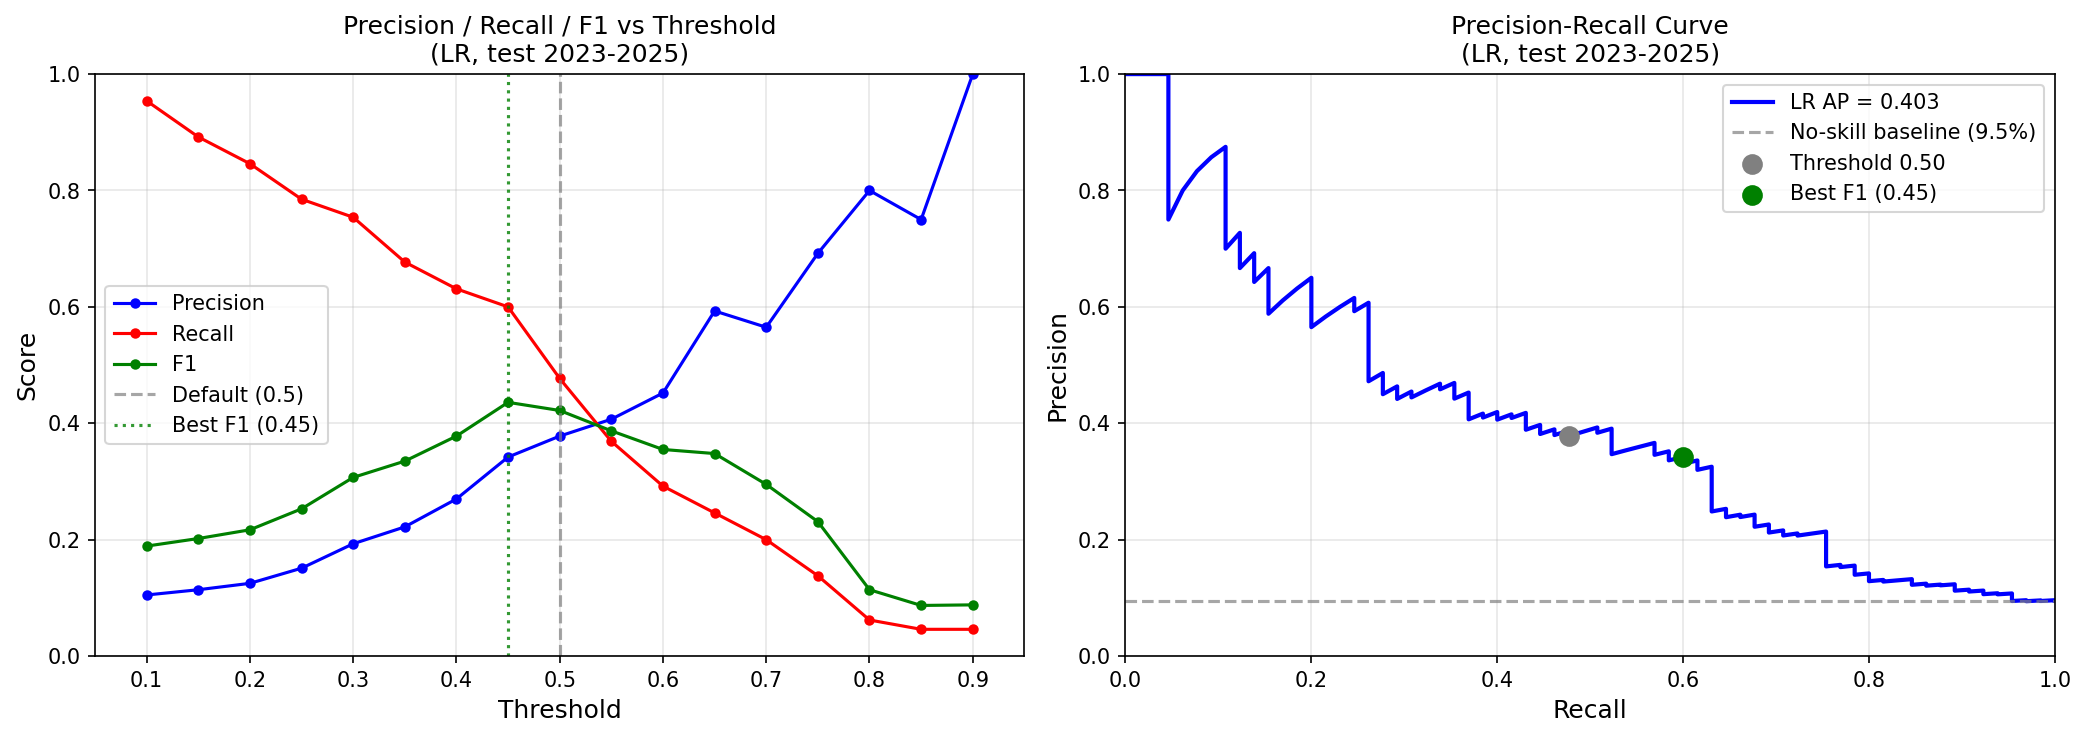
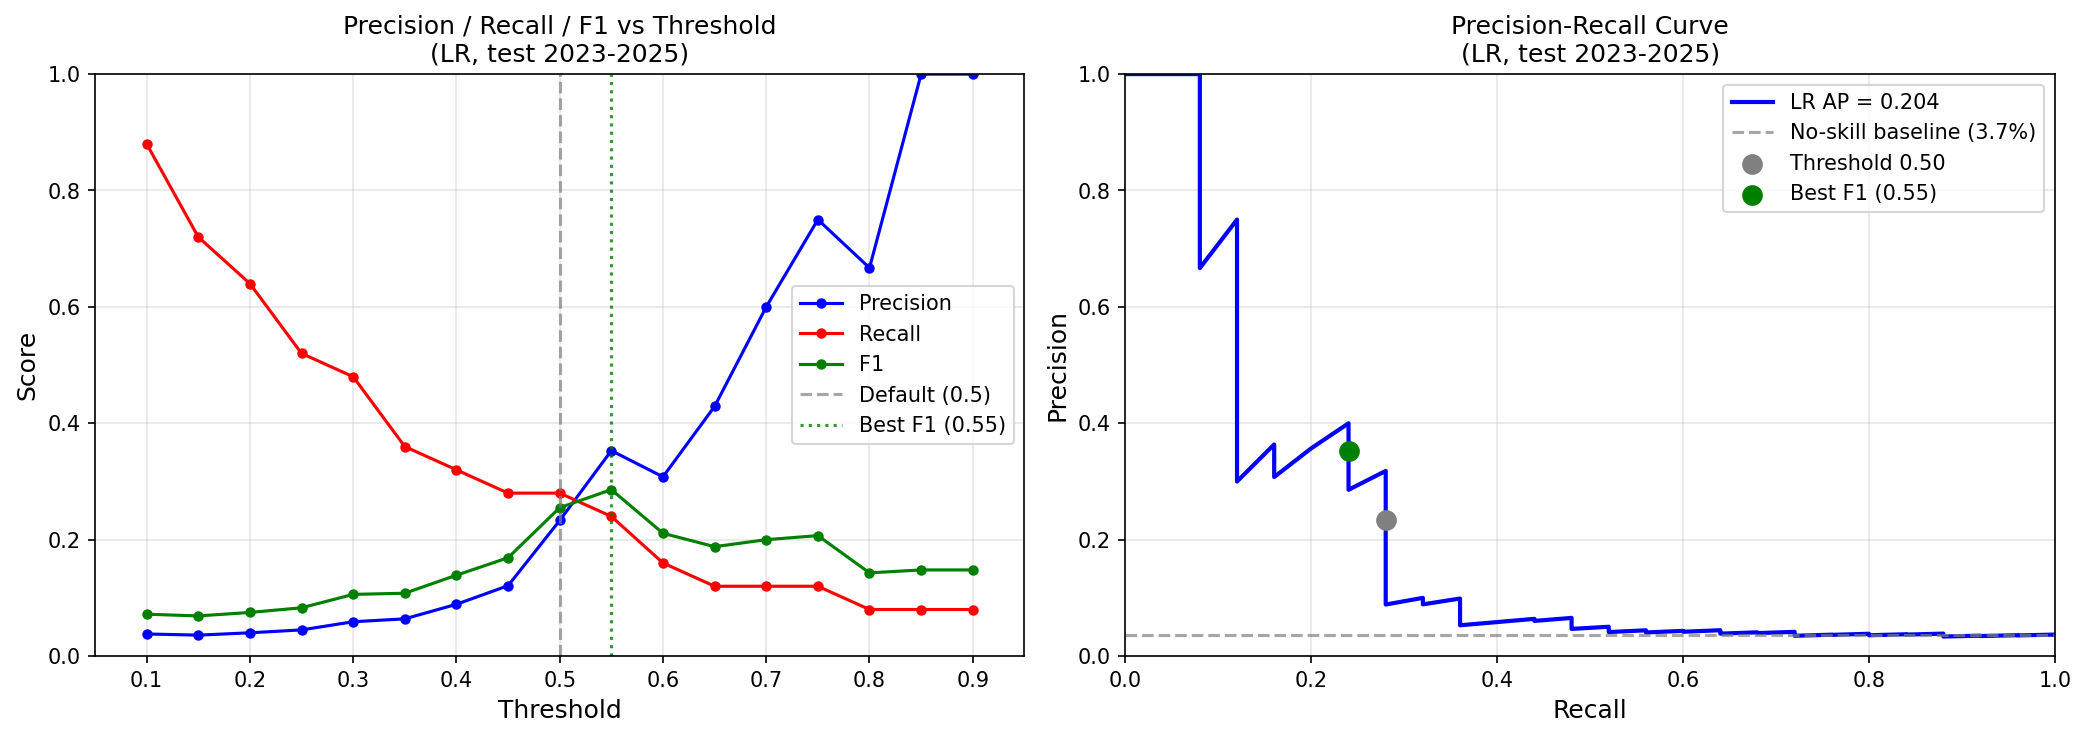
Put 2024 on DEEP's lab-corrected scale (exact per-cruise lines); rerun 28-day test and calendar tests
2024 bloom days 13.3% -> 4.1%. 28-day test AUC 0.590 [0.427, 0.757] on 25 events (2024 alone 0.952).
21-day CV 0.660; pre-registered calendar test still passes over 2016-25 (+0.088, p < 0.001).

Claude-Session: https://claude.ai/code/session_019qugKZoFUV2rvdqeagrEFM

diff --git a/src/models/label_rebuild.py b/src/models/label_rebuild.py
@@ -40,6 +40,11 @@ RATIO_CSV = "data/sensor_vs_lab_chl.csv"
 OUT_TMPL = "data/hab_features_tidal_{}.csv"
 PREDS_TMPL = "data/test_predictions_{}.csv"
 RESULTS_CSV = "data/label_rebuild_results.csv"
+# DEEP profile file (M. Lyman, 2026-10-02): raw and corrected chlorophyll, Jan 2024 - Jul 2026.
+# DEEP's correction is exactly linear per cruise (corrected = a * raw + b, residuals ~1e-15), and
+# those lines reproduce our existing 2025 Corrected_Chlorophyll with zero difference, so they fill
+# the missing 2024 values. 2022-2023 remain uncorrected until DEEP sends them.
+DEEP_PROFILE_XLSX = "data/raw/deep_lab_chla/DEEP Profile Chla data 2024_2026.xlsx"
 
 BLOOM = 10.0
 HORIZON_D = 28
@@ -73,6 +78,43 @@ def s1_year_factors(df):
     ratio = (both.Corrected_Chlorophyll / both.Chlorophyll).groupby(both.year)
     fac = ratio.median().where(ratio.size() >= MIN_FILL_ROWS)
     return fac.reindex(sorted(df.year.unique())).fillna(1.0)
+
+
+def deep_cruise_correction(path=DEEP_PROFILE_XLSX):
+    """Per-cruise (slope, intercept) of DEEP's correction, plus each station-day's cruise."""
+    if not os.path.exists(path):
+        return None
+    p = pd.read_excel(path)
+    p["date"] = pd.to_datetime(p.Activity_Date).dt.normalize()
+    p = p.dropna(subset=["Chlorophyll ug/L", "Corrected Chlorophyll ug/L"])
+    coef = {c: np.polyfit(g["Chlorophyll ug/L"], g["Corrected Chlorophyll ug/L"], 1)
+            for c, g in p.groupby("cruise") if len(g) >= 3}
+    day = (p.assign(station_name=p.Station_Name.astype(str))
+             .groupby(["station_name", "date"]).cruise.first())
+    span = p.groupby("cruise").date.agg(["min", "max"])
+    return coef, day, span
+
+
+def fill_corrected(frame, corr):
+    """Corrected_Chlorophyll with gaps filled from DEEP's per-cruise line where a cruise matches:
+    first by (station, date), else by the single cruise whose date span covers the date."""
+    out = frame.Corrected_Chlorophyll.copy()
+    if corr is None:
+        return out
+    coef, day, span = corr
+    need = out.isna() & frame.Chlorophyll.notna()
+    keys = list(zip(frame.station_name[need].astype(str), frame.date[need]))
+    cruises = []
+    for st, dt in keys:
+        c = day.get((st, dt))
+        if c is None:
+            hit = span.index[(span["min"] <= dt) & (span["max"] >= dt)]
+            c = hit[0] if len(hit) == 1 else None
+        cruises.append(c if c in coef else None)
+    raw = frame.Chlorophyll[need].values
+    vals = [coef[c][0] * r + coef[c][1] if c else np.nan for c, r in zip(cruises, raw)]
+    out.loc[need] = vals
+    return out
 
 
 def s2_year_ratios():
@@ -240,6 +282,14 @@ def build():
                                              "Corrected_Chlorophyll"],
                        dtype={"station_name": str}, low_memory=False)
     prof["date"] = pd.to_datetime(prof.time, utc=True).dt.tz_localize(None).dt.normalize()
+    corr = deep_cruise_correction()
+    if corr is not None:
+        n0 = df.Corrected_Chlorophyll.notna().sum(), prof.Corrected_Chlorophyll.notna().sum()
+        df["Corrected_Chlorophyll"] = fill_corrected(df, corr)
+        prof["Corrected_Chlorophyll"] = fill_corrected(prof, corr)
+        print(f"DEEP per-cruise correction ({len(corr[0])} cruises) filled Corrected_Chlorophyll on "
+              f"{df.Corrected_Chlorophyll.notna().sum() - n0[0]} station-days and "
+              f"{prof.Corrected_Chlorophyll.notna().sum() - n0[1]} profile rows")
     s1_fac = s1_year_factors(df)
     s2_ratio, s2_fallback = s2_year_ratios()
     print("S1 gap-fill factor (Corrected/raw) for years not fully covered:")

diff --git a/notes/SCIENTIFIC_METHOD.md b/notes/SCIENTIFIC_METHOD.md
@@ -919,6 +919,8 @@ LEDs, a passive buzzer and a relay (PN2222A + 1N4007 flyback diode on D10).
 - **Wiring pictures:** circuito.io, a Fritzing-art breadboard drawing, and a schematic.
 - **Materials:** a per-experiment list is in `notes/mitigation/MATERIALS_LIST.md`.
 - **Laptop link (2026-09-27):** `hardware/alerter_uno/alerter_link.py` sends each day's `p` and chl to the Uno and logs its decisions. On the real board it replayed all 3,287 Narragansett F7 days (10 episodes) with **0 mismatches** against `loop_controller.py`, including days with missing `p` or chl. `--today` restores the Uno's state after a USB reset.
+- **New board (2026-09-30):** a replacement Elegoo Uno (COM5) passed Tests A, B and C (handover + H4 floor) line for line, and the relay clicked on D10 under the alerter sketch and `hardware/relay_click_test/`. Next: stage 3, the temperature probe.
+- **On-device model (2026-10-01):** for a standalone, computer-free device, the fork's `src/deploy/export_c_model.py` writes the Narragansett v2 model (300 trees, 4,236 nodes) as C (`release/bloom_model.h`, ~38 KB of tables). On 5,000 station-days (1,657 with a missing input) the C version gives the same alert as Python on every day at t = 0.45 (max probability difference 9e-4, from float32 thresholds). Too big for the Uno's 32 KB flash; it fits an ESP32 (4 MB). Feature building (lags, rolling means, prior-years climatology, quantile rescaling) still has to be ported to the device.
 
 **Significance checks on the LIS model (2026-09-28, exploratory, not pre-registered).** On the S1
 test set (1,034 station-days, 65 positive rows = 38 independent episodes; predictions reproduce
@@ -1033,3 +1035,18 @@ exactly from `final_evaluation_threshold_sweep.py`):
 - **Local refit** helps modestly (+0.05 lift at 10 of 16 sites). This reverses the "refitting buys nothing" claim.
 - **Tank-sensor forecast:** 0.804 via the real tool path. This corrects the earlier 0.810, and the fork climatology leak is now fixed.
 - **Thesis:** LIS boat data ties the calendar in recent years, while daily sensors beat it every year.
+
+**Bench plan change: aeration and peroxide only (2026-10-01, decided with the counselor before any tank data).** The device has to sit on the water fully autonomously, so a treatment stays only if the device can switch it (relay or pump), it needs no living stock, and it runs for weeks with at most a refill. Details: `notes/mitigation/EXECUTION_PLAN.md`, "Plan change 2026-10-01".
+- **Dropped:** seaweed (live kelp kept cold and swapped; sugar kelp dies back above ~18-20 °C, the summer bloom season); shellfish (always filtering, so not switchable; live animals; permits; stops feeding in dense blooms); curcumin (its yellow colour absorbs the ~470 nm excitation light and blinds the device's fluorometer, giving a false "bloom gone"; effective dose ≥ 3 mg/L overlaps the zebrafish larval LD50 of 1.8-2.8 mg/L; one organism tested). The Layer 2 results for them stay as a record.
+- **Bench question:** can a forecast-triggered, fully autonomous device hold back (aeration) or cut (peroxide) a tank bloom of non-toxic algae, without harming non-targets or pushing the algae below normal? Target setting: enclosed or semi-enclosed water (harbors, shellfish beds, aquaculture pens, coastal ponds); never the open Sound, and not field-ready.
+- **Hypotheses (to be pre-registered in `LOOP_PREREG.md`):**
+  - **Aeration, primary (H1-delay):** arm B stays below `C_ok` for more days than untreated arm A, reported with hours ON and number of ON episodes (reruns). The ≥ 50% peak cut is secondary for aeration. Reason, written before data: in real water, tides flush nutrients and conditions change, so holding a bloom back lets its window pass, and the device re-runs when the forecast fires again.
+  - **Peroxide, primary (H1a/H1b):** arm B's peak is ≥ 50% below arm A's, and B beats reactive arm C.
+  - **H2** (false alarm safe), **H3** (regrowth after OFF; for aeration it tells how often reruns are needed) and **H4** (never below 80% of warm-up) unchanged.
+  - **H5 (secondary, screens):** peroxide sensitivity falls with cell size (*Micromonas* ≈ *Nannochloropsis* > *Skeletonema* > *T. weissflogii* > *P. micans*), as Randhawa et al. 2012 reported.
+- **Variables.** Independent: treatment timing (arm A none, B forecast loop, C reactive at 50% of the expected peak, D false alarm); in the screens, airflow (still, gentle, 0.05, 0.6 L/min per L) and peroxide dose (0-6.4 mg/L, 3 × 0.8 mg/L pulses), across a cell-size species panel. Dependent: days below `C_ok`, hours ON, ON episodes, days to regrowth (aeration); peak chlorophyll and cell counts, small- vs large-cell chlorophyll (peroxide); *Artemia* survival; daytime and dawn DO. Controlled: Sound-matched water (salinity 27.5, recipe nutrients), 12-15 °C, light cycle, inoculum, n = 3 tanks per arm.
+- **Species panel (both screens):** *Micromonas pusilla* (~2 µm, NCMA), *Nannochloropsis* (2-3 µm, live reef-aquarium food), *Skeletonema*, plus *Akashiwo sanguinea* / *P. triestinum* (aeration) or *T. weissflogii* and *P. micans* (peroxide). The ~2 µm cells are measured by fluorometer with hemocytometer counts at 400× as a check, which is a stated limitation.
+- **Layout:** two loop runs at once, 28 tanks (each culture gets its own arm A and 2 pilot tanks; 23 if both screens pick the same culture). Updated: `00_CONTROL_LOOP.md`, `01_BUBBLES.md`, `03_PEROXIDE_BAG.md`, `PROCEDURES.md`, `MATERIALS_LIST.md`, Form 3; `02`, `04`, `05` carry a "Dropped" banner.
+- **Results:** none yet (no bench work has started).
+
+**2024 put on the lab scale (2026-10-02).** DEEP (M. Lyman) sent 2024 - Jul 2026 profile chlorophyll (raw and corrected) and lab chlorophyll a. DEEP's correction is an exact per-cruise line; it reproduces our 2025 corrected values with zero difference and our 2024 raw matches theirs on all 812 casts, so 2024 now uses it (`label_rebuild.fill_corrected`). Result: 2024 bloom days 13.3% → 4.1%; the 28-day test (2023-25) drops to AUC 0.590 [0.427, 0.757] on 25 events (2024 alone 0.952; 2023 0.433; 2025 0.537). The old 0.767 rested on raw-sensor 2024 "events". The pre-registered calendar test still passes over 2016-2025 (+0.088, p < 0.001); in 2023-25 the calendar is ahead (not significant). Conclusion unchanged and sharper: boat-sampled LIS data gives seasonal skill over the decade but not reliably in recent years; daily sensors (Narragansett) beat the calendar. The 2026 season is pre-registered as the first clean test (`notes/PROSPECTIVE_2026_PREREG.md`); 2022-23 corrected data and 2026 CTD profiles requested from DEEP.

diff --git a/notes/S1_NUMBERS_SHEET.md b/notes/S1_NUMBERS_SHEET.md
@@ -1,5 +1,50 @@
 # Current numbers on the lab-consistent label (S1), after the 2026-09-28 audit
 
+## UPDATE 2026-10-02: 2024 now on the corrected (lab) scale. These numbers supersede the ones below where they differ.
+
+**What changed.** DEEP (M. Lyman) sent profile chlorophyll, raw and corrected, for Jan 2024 - Jul 2026.
+- DEEP's correction is exactly linear per cruise. Those lines reproduce our 2025 `Corrected_Chlorophyll`
+  with zero difference.
+- Our 2024 raw values equal DEEP's raw on all 812 casts.
+- `label_rebuild.py` now fills 2024 from these lines (`fill_corrected`). Corrected/lab median for 2024
+  is 1.02.
+- The 2024 one-day share above 10 µg/L fell from 0.133 (raw sensor) to 0.041.
+- 2022-2023 are still on the raw scale (requested from DEEP).
+- Train and validation (≤ 2022) are unchanged, so the model and both thresholds are unchanged.
+
+**28-day test 2023-25** (`data/rerun_2024fix_eval28.log`; 683 rows, **25 events**, base 3.7%):
+- **AUC 0.590 [0.427, 0.757].**
+- **Per year:**
+  - 2023: AUC 0.433, 12 events (unchanged);
+  - **2024: AUC 0.952, 9 events** (was 0.848 on 49 raw-scale events);
+  - 2025: AUC 0.537, 4 events.
+- **Budget threshold t = 0.47:** precision 0.163, recall 0.280 (7 of 25), lift 4.45, 2.1 alerts/month.
+- **POD rule t* = 0.25:** precision 0.045, recall 0.520, lift 1.22.
+- **Reading:**
+  - The old pooled 0.767 was carried by about 40 raw-sensor 2024 "events" that the lab scale does not
+    confirm.
+  - On the corrected label the model ranks 2024 very well and is near chance in 2023 and 2025, with
+    only 16 events between them.
+  - The pooled AUC is low partly because one model score scale is pooled across very different years.
+
+**21-day walk-forward CV 2016-2025** (`data/rerun_2024fix_cv21.log`): pooled AUC **0.660**, 1,971 rows,
+94 events.
+
+**Pre-registered calendar test, rerun on the corrected data** (`data/rerun_2024fix_calendar.log`):
+- **2016-25:** model 0.660 vs calendar 0.573, **+0.088 [+0.042, +0.135], p < 0.001. Still PASS.**
+- **2023-25:** model 0.602 vs calendar 0.706, −0.104 [−0.258, +0.046], p = 0.91.
+  - Not significant either way (16 events), but the calendar is ahead.
+  - Honest claim: "no better than the calendar in 2023-25".
+
+**Hybrid:** still not adopted. On development folds the hybrid is below the locked model, −0.008
+(`data/rerun_2024fix_hybrid.log`).
+
+**Not yet rerun on the corrected 2024:** station-specific models, basin alert, decision value, LR
+geometry, point of no return, and the `warning_*` scripts (they read `cv_pred_orig_h21.csv`). Treat their
+numbers below as "(pre-2024-fix)".
+
+**Clean test ahead:** `notes/PROSPECTIVE_2026_PREREG.md` (2026 season, pre-registered 2026-10-02).
+
 Every number here comes from a re-run output file on the default (S1) path. The source file is
 given for each group. The rationale and history are in `notes/LABEL_REBUILD_PREREG.md` §§10-15.
 Use only these numbers when updating documents. For any result **not** listed, add the label

diff --git a/CLAUDE.md b/CLAUDE.md
@@ -31,19 +31,20 @@ BASE + tidal_gt_anom + tidal_msl_anom + chl_roll14_mean + chl_roll21_mean +
 sal_lag2 + sal_lag3 + sal_lag4 + percent_saturation + max_gust_3d.
 Requires `data/gust_features_daily.csv` (`python src/features/add_gust_features.py`).
 
-Current numbers (after the 2026-09-28 audit) live ONLY in `notes/S1_NUMBERS_SHEET.md`. In short:
-- **28-day test 2023-25** (683 rows, 65 events, base 9.5%): AUC 0.767 [0.647, 0.857].
-  - At the alert-budget threshold t = 0.47 (≤ 8 alerts/month on validation): precision 0.354, lift 3.72.
-  - At the validation POD rule t* = 0.25: precision 0.151, recall 0.785.
-- **21-day walk-forward CV:** AUC 0.693. It beats a past-years calendar over 2016-2025 (+0.077, p < 0.001, pre-registered) and ties it in 2023-25.
+Current numbers live ONLY in `notes/S1_NUMBERS_SHEET.md` (updated 2026-10-02: 2024 is now on DEEP's corrected scale). In short:
+- **28-day test 2023-25** (683 rows, 25 events, base 3.7%): AUC 0.590 [0.427, 0.757].
+  - Per year: 2023 0.433 (12 events), 2024 0.952 (9), 2025 0.537 (4). The old 0.767 rested on raw-sensor 2024 events.
+  - At t = 0.47: precision 0.163, lift 4.45. At t* = 0.25: precision 0.045, recall 0.520.
+- **21-day walk-forward CV:** AUC 0.660. It beats a past-years calendar over 2016-2025 (+0.088, p < 0.001, pre-registered); in 2023-25 the calendar is ahead (not significant).
 - The 21-day operating threshold is `locked_pipeline.T_STAR_21` (0.20, validation rule); import it, never hard-code.
+- 2022-2023 are still raw-sensor scale. The clean test is the 2026 season (`notes/PROSPECTIVE_2026_PREREG.md`).
 
 Rules learned the hard way (2026-09-28 audit):
 - Any climatology, anomaly or monthly feature must use only data dated before the row (and, for monthly series, only completed months).
 - Forward labels come only from `label_utils.forward_window_label`: an unobserved or unfinished window is NaN, not 0.
 - Thresholds are chosen on validation only; purge training rows whose label window reaches the next split.
 - The forecast is issued at the end of sampling day t from that day's measurements.
-- Disclose that the 35 features were chosen partly on 2023-25, and that 2022-24 S1 is raw-sensor scale.
+- Disclose that the 35 features were chosen partly on 2023-25, and that 2022-23 S1 is raw-sensor scale (2024 corrected 2026-10-02).
 
 ## Key scripts
 

diff --git a/notes/CALENDAR_BASELINE_PREREG.md b/notes/CALENDAR_BASELINE_PREREG.md
@@ -75,3 +75,10 @@ date (date + 21 d ≤ t).
 - **Held out 2023-25** (reported once): locked 0.736, hybrid 0.735, calendar 0.749. Hybrid minus calendar −0.014, p = 0.64: a tie.
 - **Why it doesn't help:** the locked model already carries the seasonal and site information (`month`, station latitude/longitude, the causal `chl_climatology`). Adding the calendar rate again gives the regularized LR nothing new. The recent-years tie is a real limit of the current features, not a missing calendar input.
 - Per the protocol, no other variants were tried.
+
+## Rerun 2026-10-02 after the 2024 correction (data fix, rules unchanged; `data/rerun_2024fix_calendar.log`, `data/rerun_2024fix_hybrid.log`)
+2024 chlorophyll is now on DEEP's corrected (lab) scale, so the 2024 bloom days fell from 13.3% to 4.1%, and pooled events from 121 to 94.
+- **Primary: still PASS.** Model 0.660 vs calendar 0.573, **+0.088 [+0.042, +0.135], p < 0.001**. The model wins 6 of 10 folds.
+- **Secondary, 2023-25:** model 0.602 vs calendar 0.706, −0.104 [−0.258, +0.046], p = 0.91, on 16 events. Not significant either way. The calendar is ahead.
+- **Hybrid:** rule 1 still fails (development: hybrid 0.668 < locked 0.676), so it is not adopted.
+- **Reading:** the decade-long edge over the calendar holds. In recent years the boat-sampled model does not beat the season. The clean check is the pre-registered 2026 season (`notes/PROSPECTIVE_2026_PREREG.md`).
